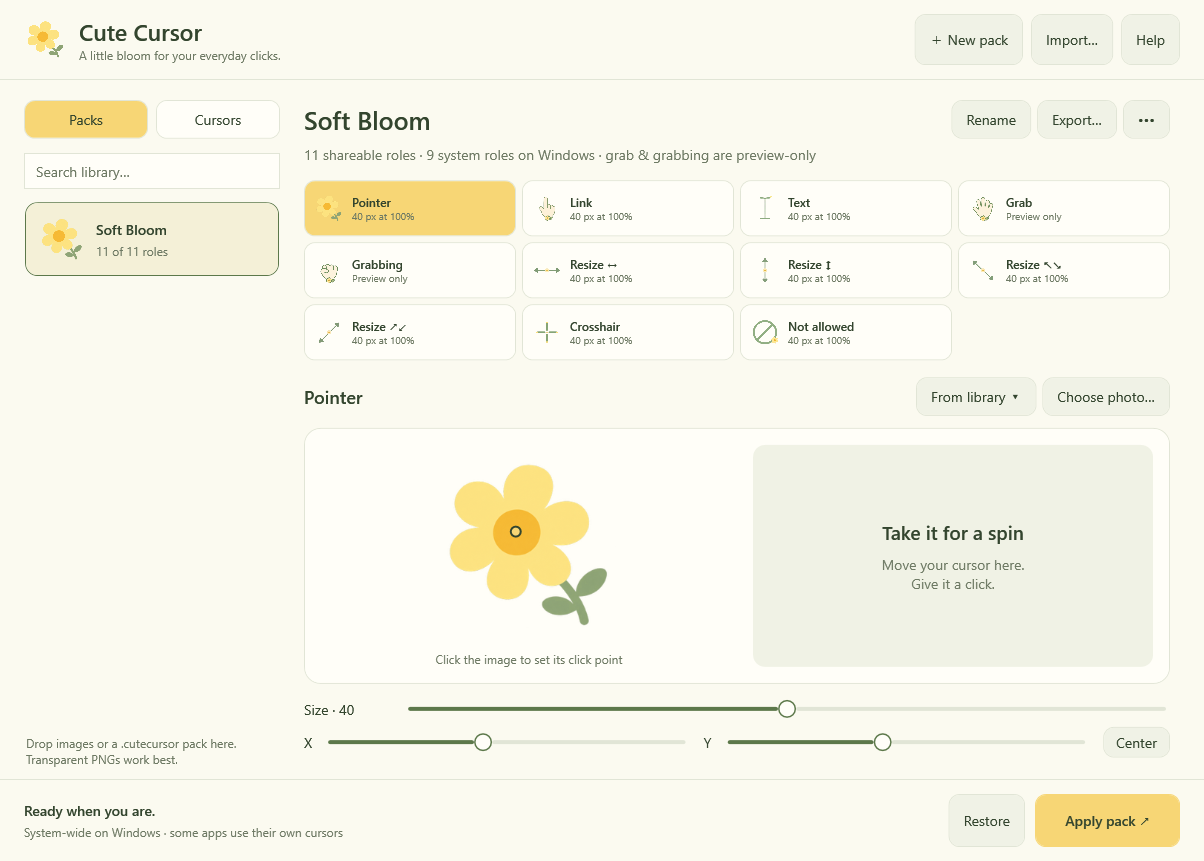
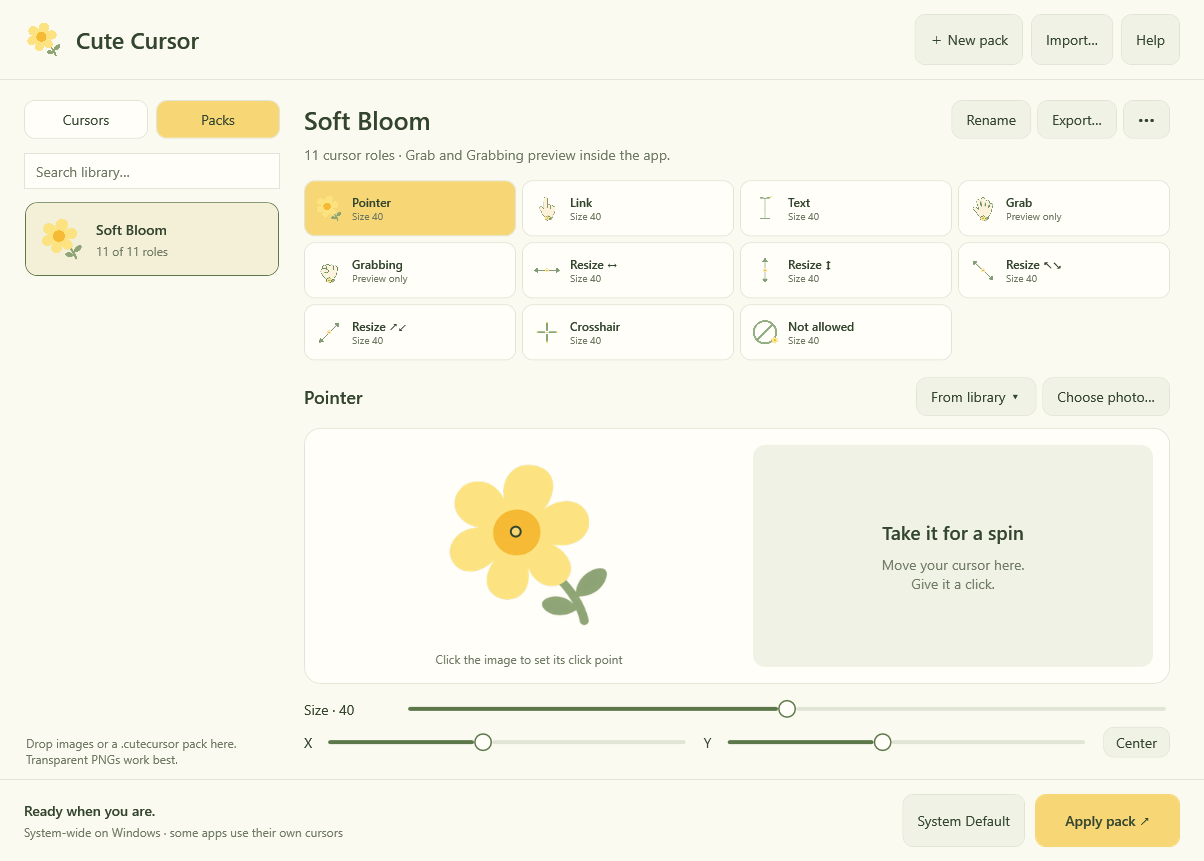
Document Windows beta downloads and verified package checks

diff --git a/docs/WINDOWS_VALIDATION.md b/docs/WINDOWS_VALIDATION.md
@@ -1,0 +1,45 @@
+# Windows 0.3.2 beta validation
+
+Build source: `2fec31c014188f861906f337466f81c448f40301` on `codex/windows`.
+[Windows runner and packaged artifacts](https://github.com/vigneshkae/cute-cursor/actions/runs/35991802937).
+
+## Passed on September 24, 2026
+
+- 34 portable tests: collection seeding/upgrades, preservation of edits and deletions,
+  image/pack validation, transactional apply/rollback, and retryable default restoration.
+- Native Windows build with no warnings or errors.
+- All 20 collection images and 11 pack images decoded and created as native cursors:
+  124 variants across 100%, 125%, 150%, and 200% scaling; native hotspots checked.
+- Five image import formats; transparent/truncated image rejection; pack round trip.
+- Isolated UI assertions: 20 options, size 40, all 11 pack roles, and System Default
+  clearing custom selection and preview while disabling Apply.
+- The packaged self-contained x64 executable ran the native smoke tests successfully.
+- Both x64 and ARM64 executable architecture headers validated during packaging.
+- Mac CI also passed for the same source commit; no Mac package was released from it.
+
+## Visual review
+
+Reviewed native Windows renders of the collection, pack, and System Default screens
+at 1220 × 900 outer window size and the pack at 840 × 620. Role cards now adapt from
+four to two columns, with readable names and a fixed, accessible action bar.
+The current Segoe UI wordmark is retained; no replacement font is bundled.
+
+![Windows pack](images/windows-soft-bloom.png)
+![Compact Windows pack](images/windows-compact.png)
+
+## Remaining hands-on checks
+
+Automated tests never call SetSystemCursor or modify the live Windows scheme.
+System-wide Apply/Restore, tray lifecycle, app-specific cursor overrides, mixed-DPI
+monitor movement, and accessibility cursor settings still need interactive testing.
+ARM64 was cross-published, not executed on Windows ARM hardware. Grab/Grabbing remain
+preview-only. These downloads are unsigned testing ZIPs, not signed final installers.
+See the [test checklist](TESTING_DOWNLOADS.md).
+
+## Package integrity
+
+Downloaded the CI artifacts and verified ZIP integrity, the three expected files,
+PE architecture, and each adjacent checksum. Release ZIP SHA-256 values:
+
[2 lines of base64/hex data omitted]

diff --git a/README.md b/README.md
@@ -9,7 +9,7 @@ Cute Cursor lets you turn images into cursors and build a matching set for your 
 It comes with **Soft Bloom**, a yellow-and-sage flower pack with 11 cursor roles,
 each starting at **40 pt**.
 
-**Windows 0.3.2 testing beta:** this branch includes the same 20 cursor choices
+**[Download Windows 0.3.2 testing beta](https://github.com/vigneshkae/cute-cursor/releases/tag/windows-v0.3.2-beta.1):** this branch includes the same 20 cursor choices
 as Mac, including **Ancestor** and **No Smoking**, plus the Soft Bloom pack.
 All new cursors start at visual size **40**, adjusted for Windows display scaling.
 System Default restores the configured Windows cursor scheme.
@@ -18,7 +18,7 @@ Windows packages are unsigned and intended for testing. The published
 [Mac 0.3.1 beta](https://github.com/vigneshkae/cute-cursor/releases/tag/v0.3.1-beta.1)
 is Developer ID signed and notarized. See [test installation instructions](docs/TESTING_DOWNLOADS.md).
 
-![Cute Cursor showing the Soft Bloom pack and botanical interface](docs/images/soft-bloom.png)
+![Cute Cursor for Windows showing Soft Bloom](docs/images/windows-soft-bloom.png)
 
 ## What you can do
 
@@ -37,8 +37,7 @@ is Developer ID signed and notarized. See [test installation instructions](docs/
 
 The interface uses a warm cream background, yellow buttons, sage-green text,
 compact menus, and matching confirmation dialogs. The header flower has no tile
-behind it. Native file pickers retain their system appearance. The image above shows the Mac
-app; see the [Windows implementation and plan](docs/WINDOWS.md) for its features
+behind it. Native file pickers retain their system appearance. See the [Windows implementation and plan](docs/WINDOWS.md) for its features
 and platform differences.
 
 ## Cursor roles

diff --git a/docs/TESTING_DOWNLOADS.md b/docs/TESTING_DOWNLOADS.md
@@ -2,6 +2,7 @@
 
 ## Windows 0.3.2 beta
 
+Download the [Windows 0.3.2 beta](https://github.com/vigneshkae/cute-cursor/releases/tag/windows-v0.3.2-beta.1).
 Windows builds are prepared from `codex/windows` and published as GitHub Release
 assets. The repository is public. These portable packages are unsigned testing
 builds, not signed final installers.
@@ -40,6 +41,7 @@ Actual system-wide Apply/Restore behavior still needs interactive Windows testin
 Each ZIP has an adjacent `.sha256` file. Compare its hash with
 `Get-FileHash -Algorithm SHA256` in PowerShell. See [Windows details](WINDOWS.md)
 for recovery, supported image formats, display scaling and the full test matrix.
+See the [validation record](WINDOWS_VALIDATION.md) for the packaged build checks.
 
 ## Mac
 
